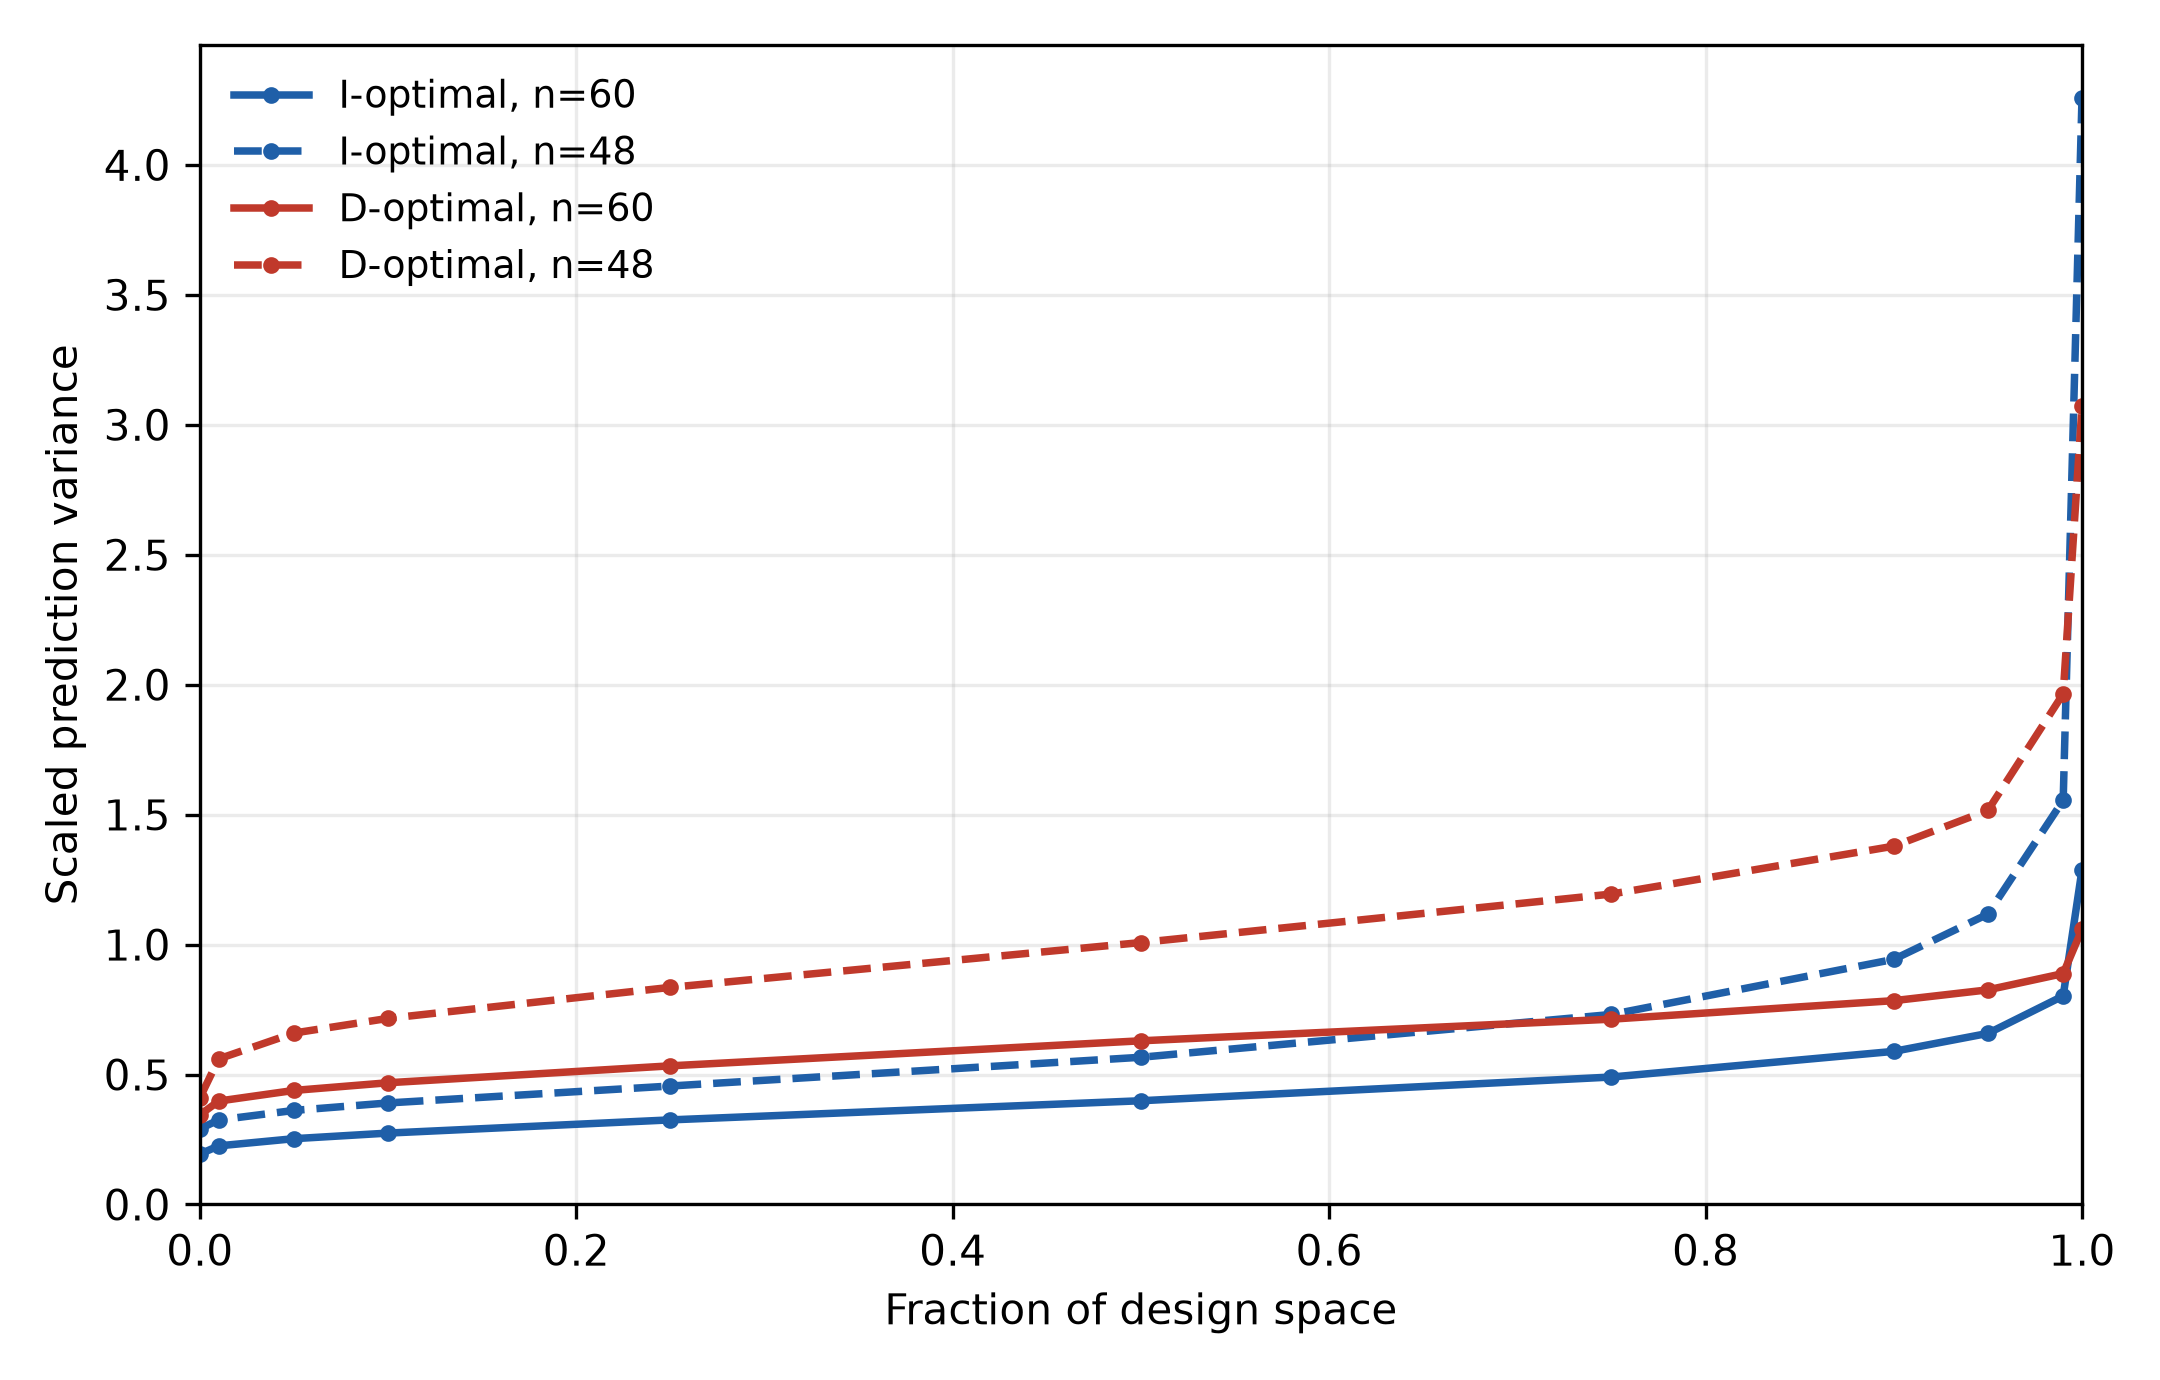
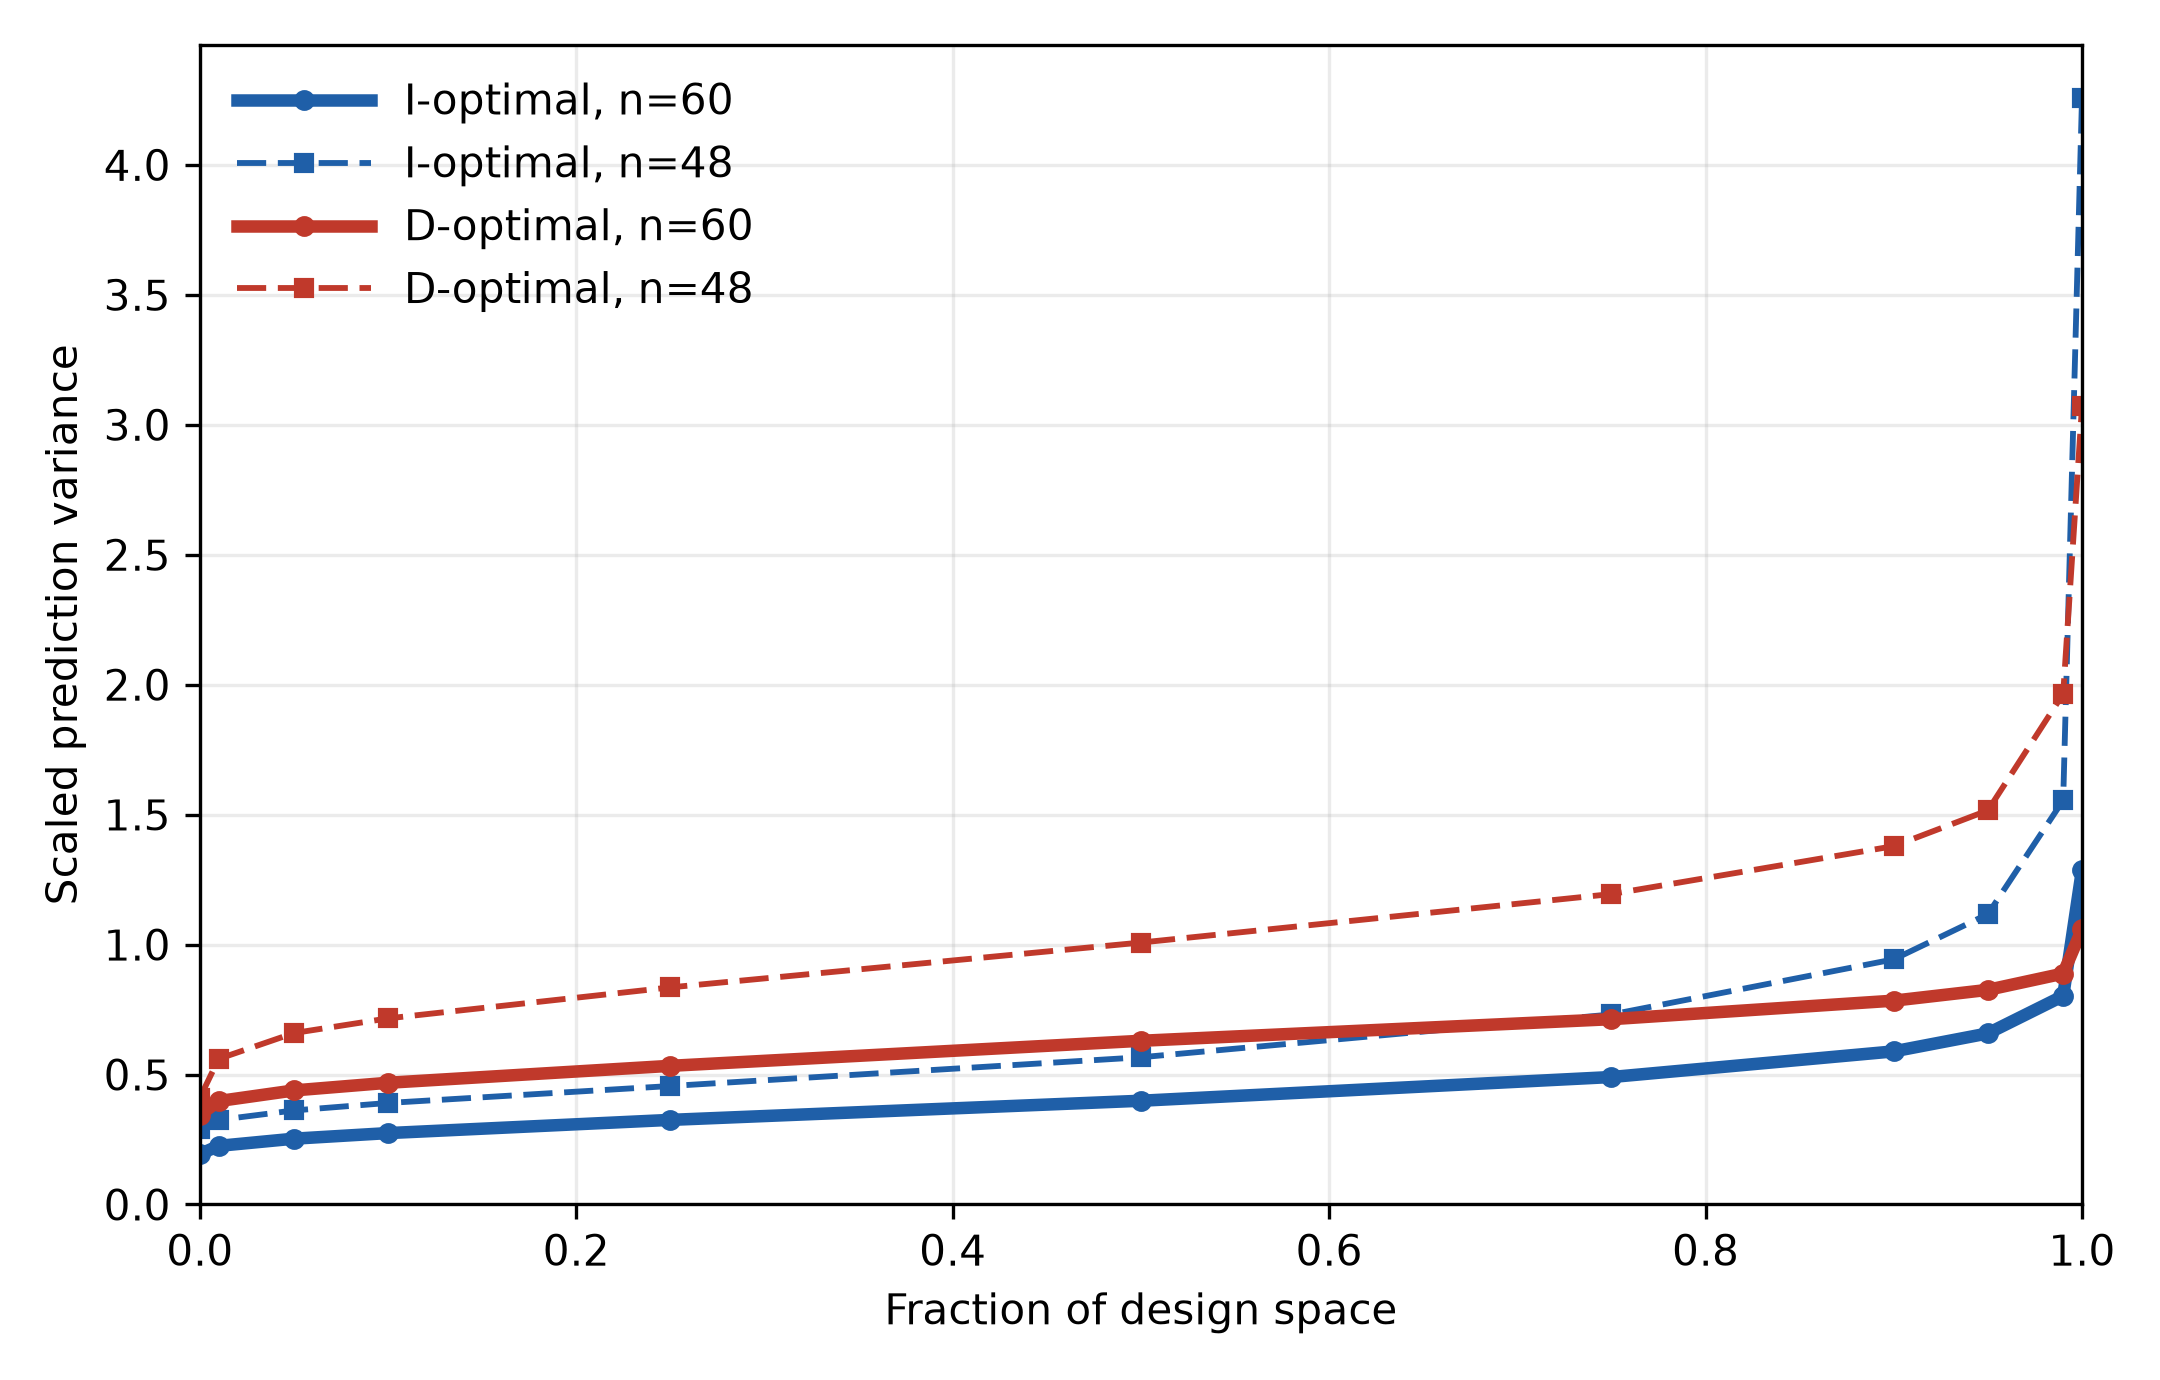
Distinguish the four FDS curves by line weight
Colour separates the criterion (I-optimal blue, D-optimal red); a heavier solid
line with round markers marks the 60-run designs and a lighter dashed line with
square markers marks the 48-run designs, so all four curves are distinguishable
from the legend line samples alone.

Claude-Session: https://claude.ai/code/session_01TvUM1DPgi2S3JFLjRJTJWj

diff --git a/doe/colour-fds-curves.py b/doe/colour-fds-curves.py
@@ -10,23 +10,27 @@ import numpy as np
 
 from colour_case_study import build_design, evaluate
 
-VARIANTS = [("i_optimal", 60, "#1f5fa8", "-"), ("i_optimal", 48, "#1f5fa8", "--"),
-            ("d_optimal", 60, "#c0392b", "-"), ("d_optimal", 48, "#c0392b", "--")]
+# Colour separates the criterion (I = blue, D = red); line weight and dash pattern
+# separate the run count (n = 60 heavy solid, n = 48 light dashed), so all four
+# curves are distinguishable from the legend line samples alone.
+VARIANTS = [("i_optimal", 60, "#1f5fa8", "-", 3.0), ("i_optimal", 48, "#1f5fa8", (0, (5, 2)), 1.4),
+            ("d_optimal", 60, "#c0392b", "-", 3.0), ("d_optimal", 48, "#c0392b", (0, (5, 2)), 1.4)]
 
 fig, ax = plt.subplots(figsize=(7.2, 4.6))
-for crit, budget, colour, style in VARIANTS:
+for crit, budget, colour, style, width in VARIANTS:
     q = evaluate(build_design(crit, budget=budget))["fds"]["quantiles"]
     frac = np.array([float(k) for k in q])
     pv = np.array([q[k] for k in q])
     label = f"{crit.split('_')[0].upper()}-optimal, n={budget}"
-    ax.plot(frac, pv, color=colour, ls=style, lw=1.8, marker="o", ms=3, label=label)
+    marker = "o" if budget == 60 else "s"
+    ax.plot(frac, pv, color=colour, ls=style, lw=width, marker=marker, ms=4, label=label)
 
 ax.set_xlabel("Fraction of design space")
 ax.set_ylabel("Scaled prediction variance")
 ax.set_xlim(0, 1)
 ax.set_ylim(bottom=0)
 ax.grid(alpha=0.25)
-ax.legend(frameon=False, fontsize=9, loc="upper left")
+ax.legend(frameon=False, fontsize=10, loc="upper left", handlelength=3.2)
 fig.tight_layout()
 fig.savefig("colour-fds-curves.png", dpi=300, facecolor="w", edgecolor="w", transparent=True)
 print("saved colour-fds-curves.png")
